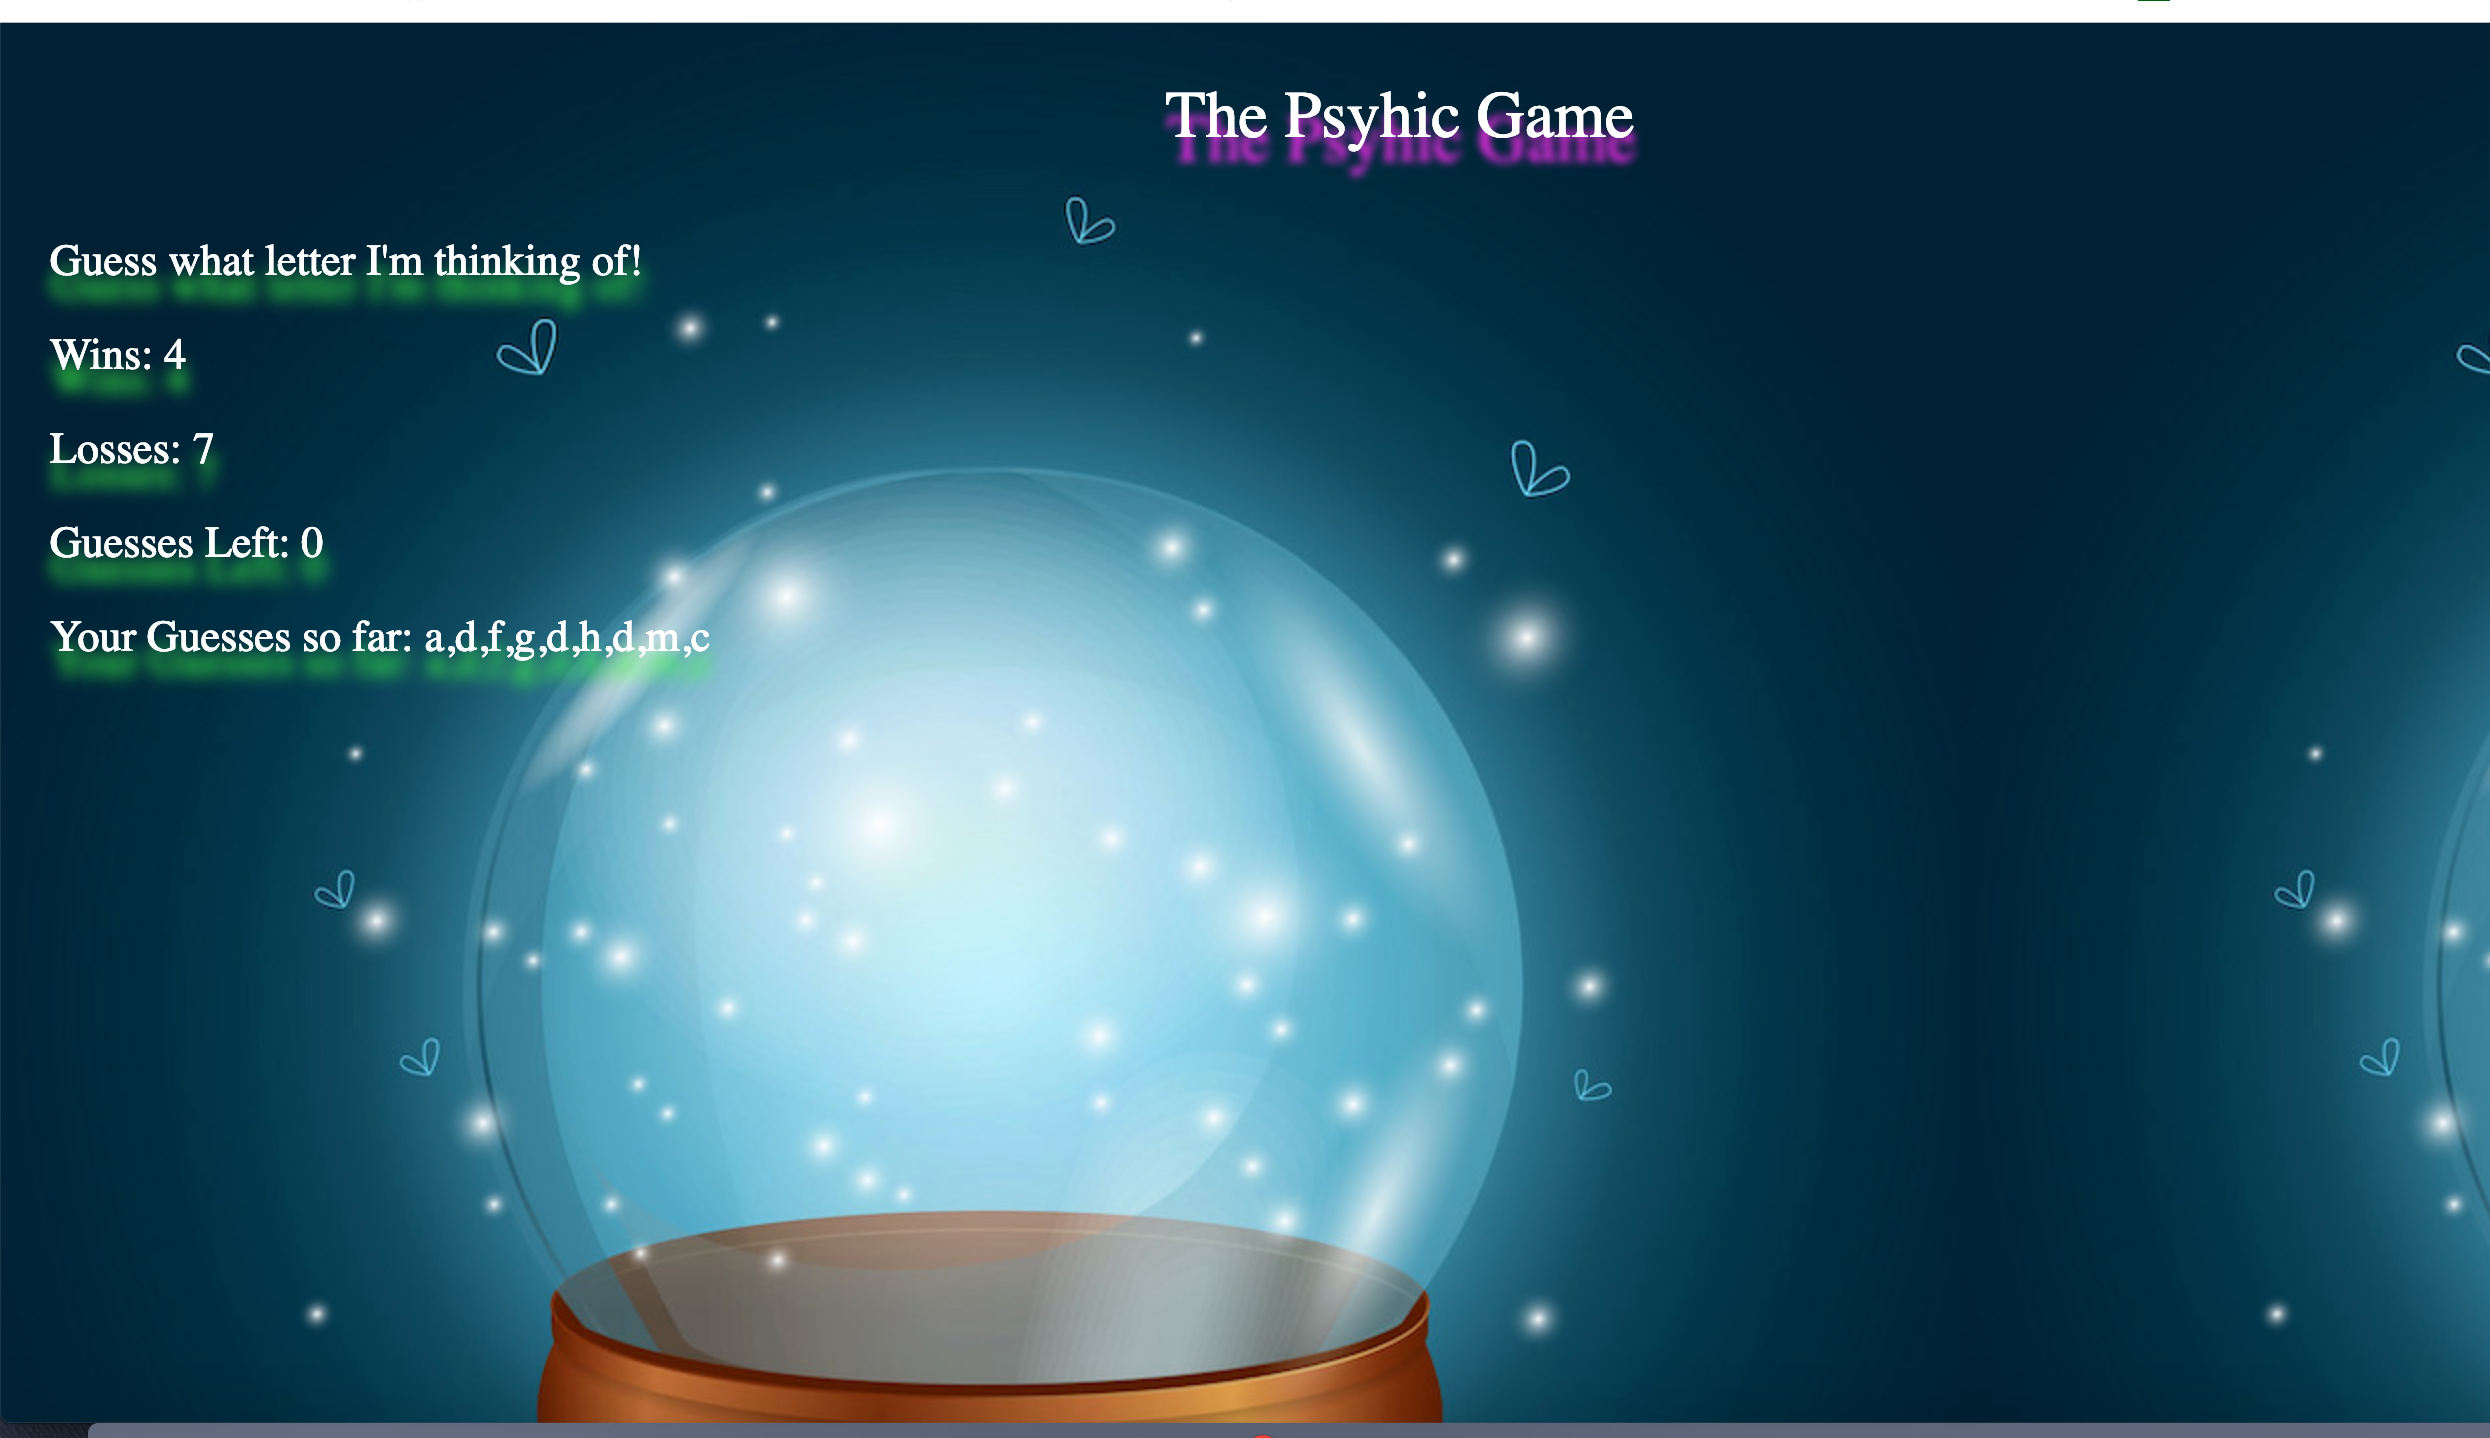
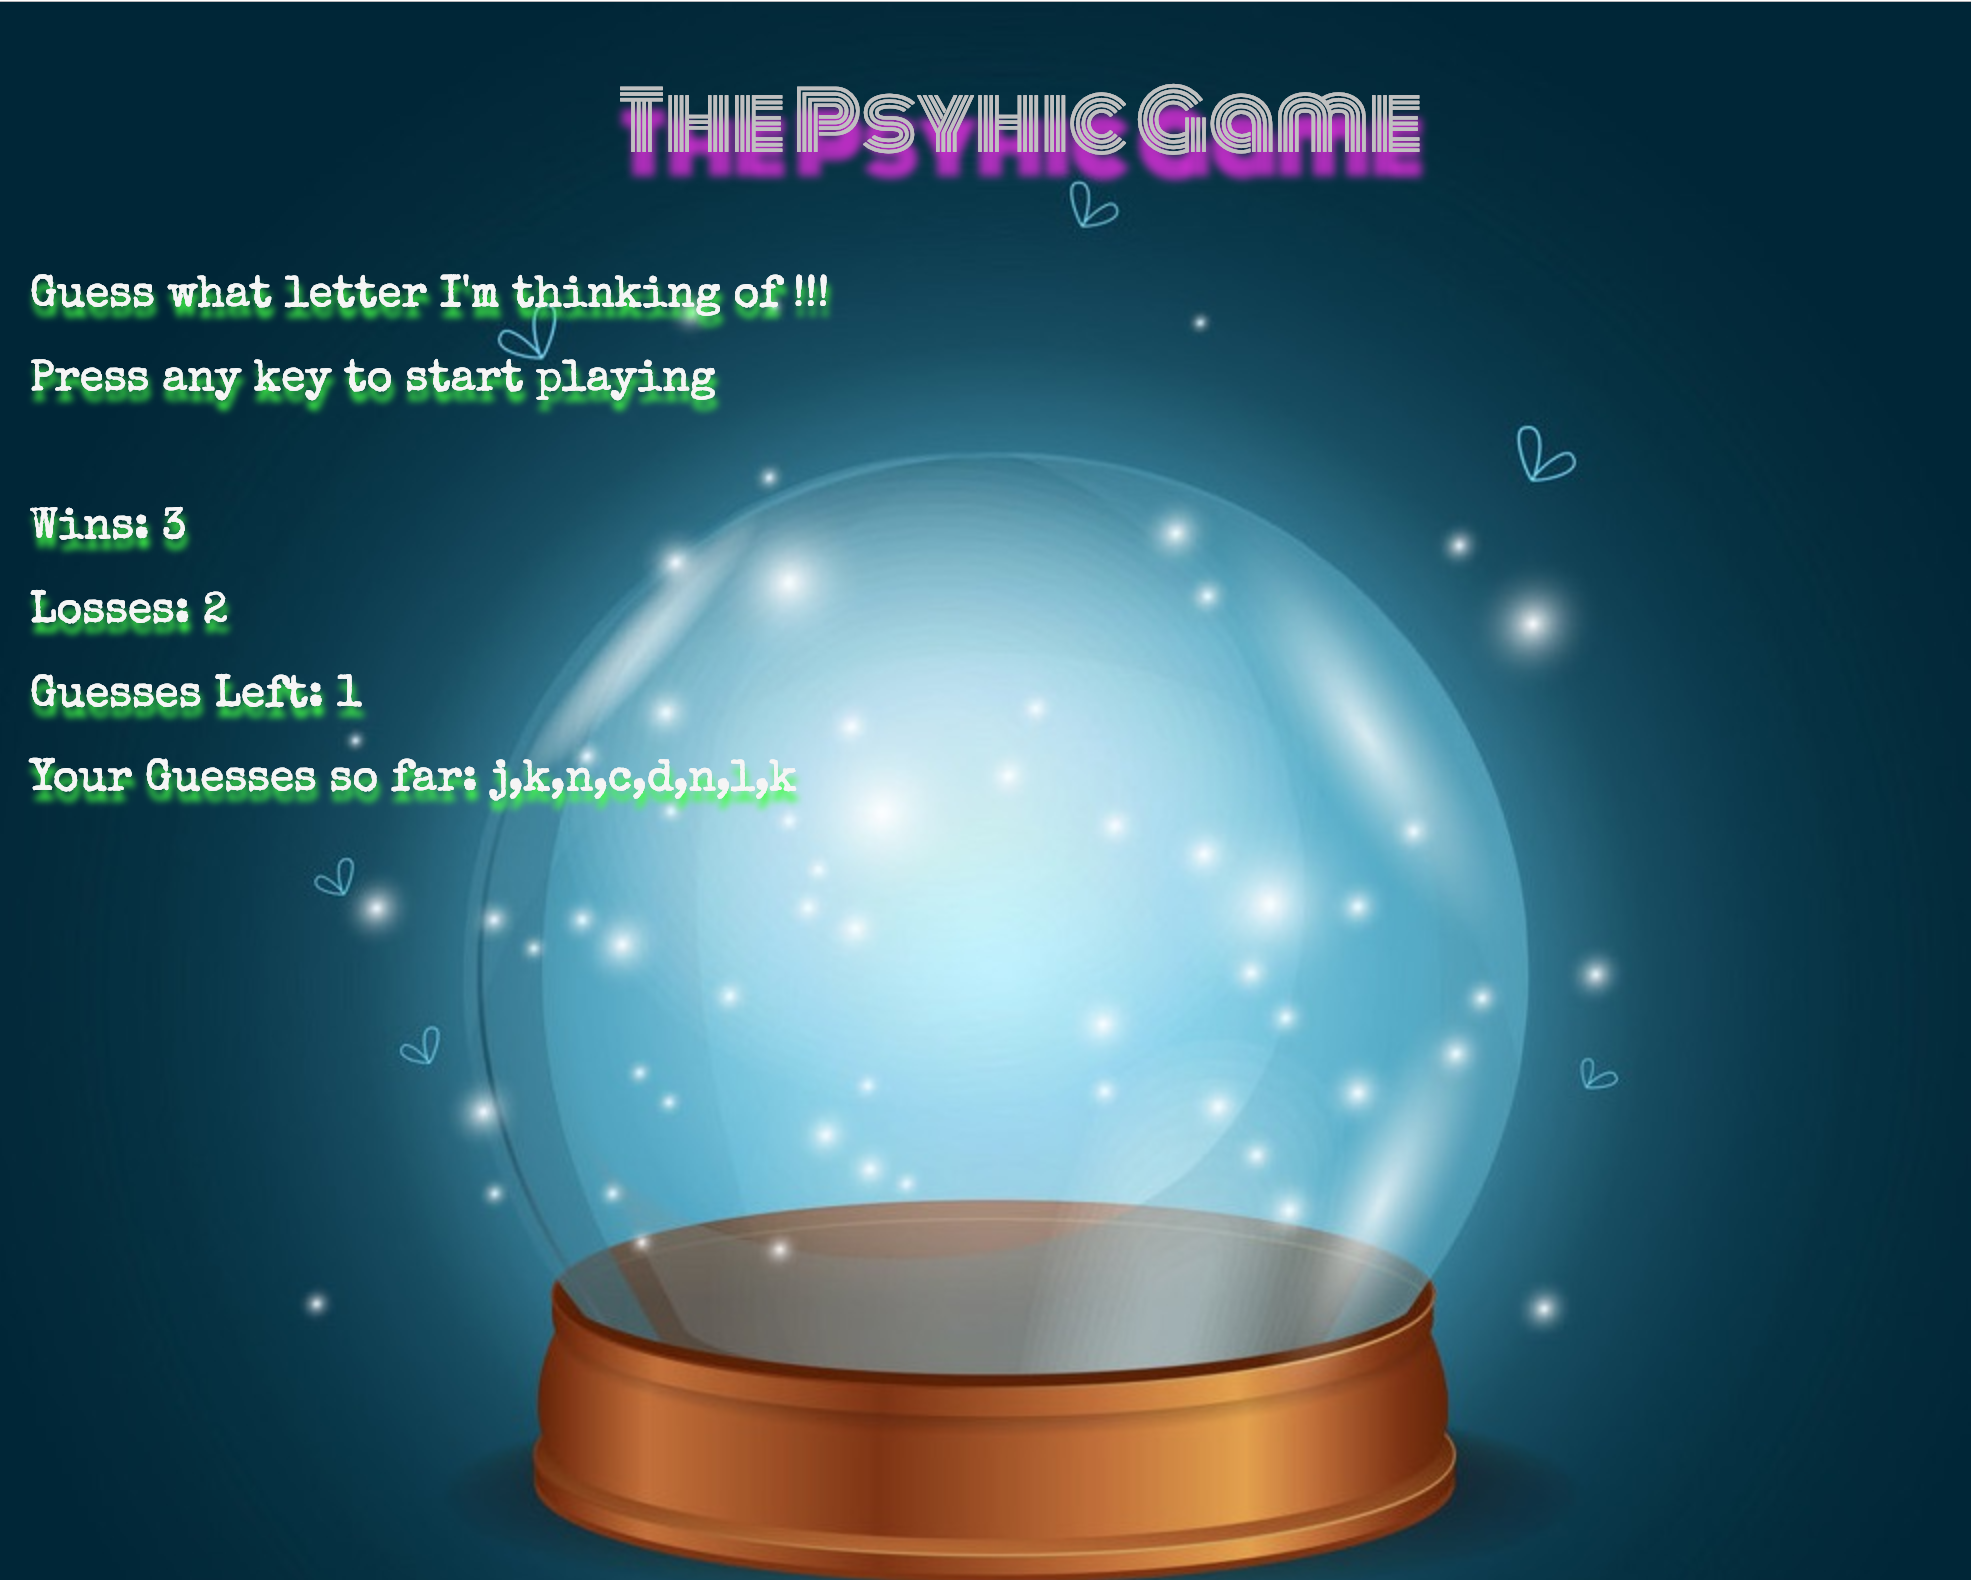
Updated the game screenshot & add new background image

diff --git a/assets/css/style.css b/assets/css/style.css
@@ -1,25 +1,28 @@
 /* Setting Background color */
 body { 
 
-    /* width: 800px; */
-    margin: 0 auto;
-    background-image: url("../images/crystall-ball-2.png");
-    color: white;
+    width: 980px;
+    /* margin: 0 auto; */
+    background-image: url("../images/crystall-ball-1.jpg");
+    color: whitesmoke;
     font-size: 22px; 
-    text-shadow: 1px 12px 12px #48FF2B;
+    text-shadow: 1px 5px 5px #48FF2B;
     font-family: 'Special Elite', cursive;
 }
 
 /* Shadow effect to game name */
 .gameHeading {
     text-shadow: 1px 12px 6px #FF2BF8;
+    color: silver;
     text-align: center; 
-    font-size: 33px;
+    font-size: 40px;
     padding : 20px;
-    margin: 10px; 
+    margin: 20px 0 0 40px; 
     font-family: 'Monoton', cursive;
 }
 
 p {
-    margin: 25px; 
+    padding: 5px;
+    margin: 10px; 
+    /* position: fixed; */
 }

diff --git a/index.html b/index.html
@@ -17,11 +17,10 @@
         <h1 class="gameHeading">The Psyhic Game</h1>
 
         <div id="psyGame">
-            
-            <p id="direction-text">READ MY MIND GUESS A LETTER....</p>
-            <!-- Guess what letter I'm thinking of! -->
-            <br /> 
+            <br />
+            <p id="direction-text">Guess what letter I'm thinking of !!!</p>
             <p>Press any key to start playing</p>
+            <br />
             <p id="wins-text">Wins:</p>
             <p id="losses-text">Losses:</p>
             <p id="guessLeft-text">Guesses Left:</p>
